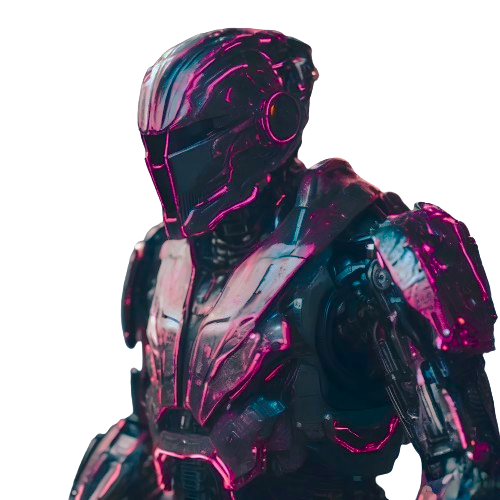
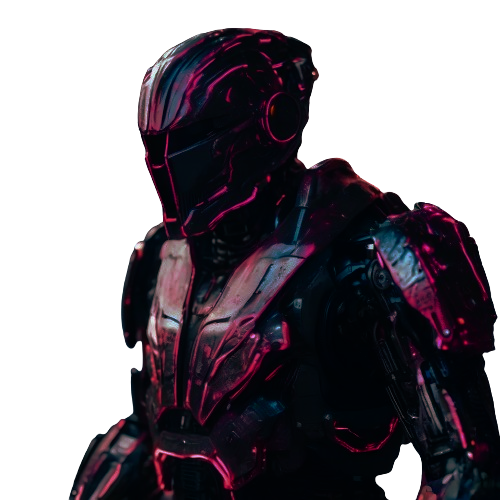
change tron and updated event phot

diff --git a/index.html b/index.html
@@ -168,7 +168,7 @@
                   <li class="slider--item slider--item-center">
                     <a href="#0">
                       <div class="slider--item-image">
-                        <img src="assets/img/work-metiew-smith.jpg" alt="Metiew and Smith">
+                        <img src="assets/img/events/robo7.jpg" alt="Metiew and Smith">
                       </div>
                       <p class="slider--item-title">Capture and Create</p>
                       <p class="slider--item-description">[Photography Contest]<br> Participants submit their photographs to be judged based on certain criteria, such as creativity, composition, technical skill, and adherence to a specific theme or subject. </p>
